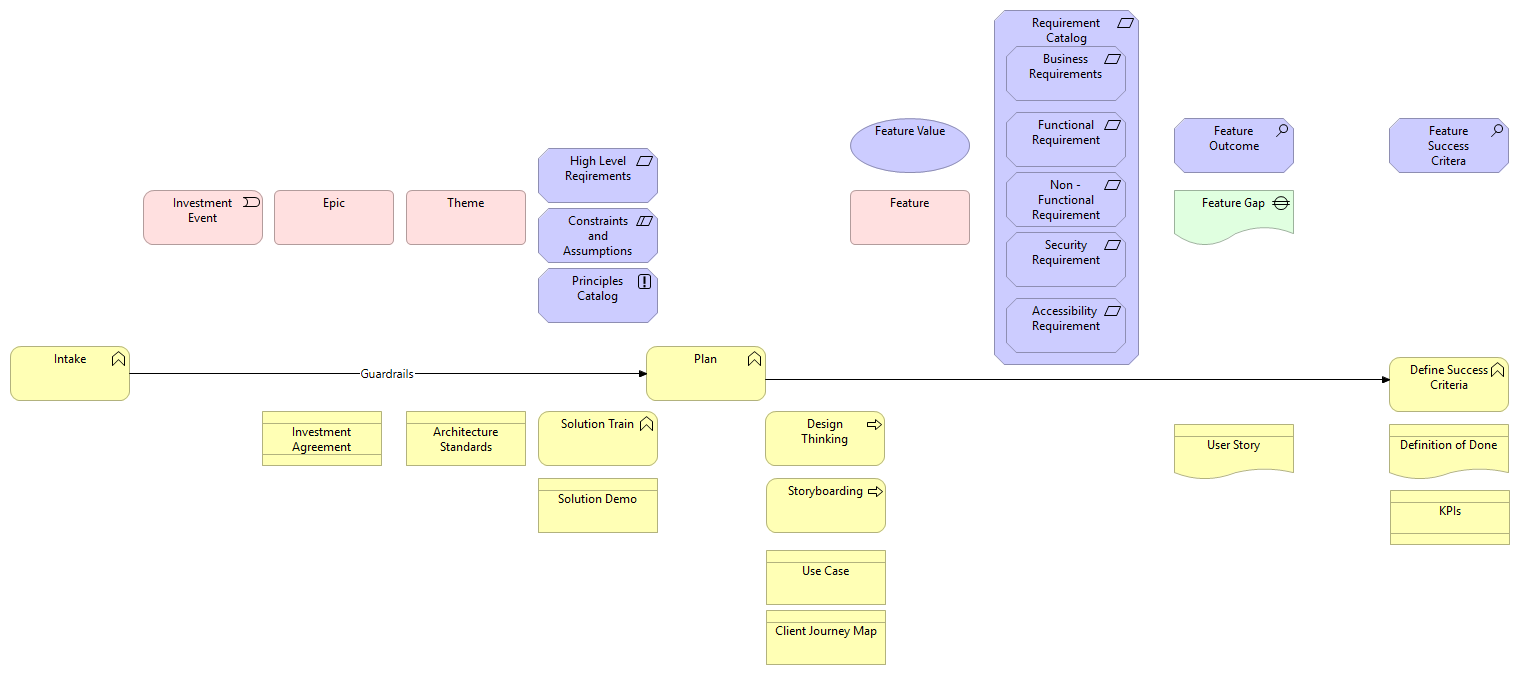
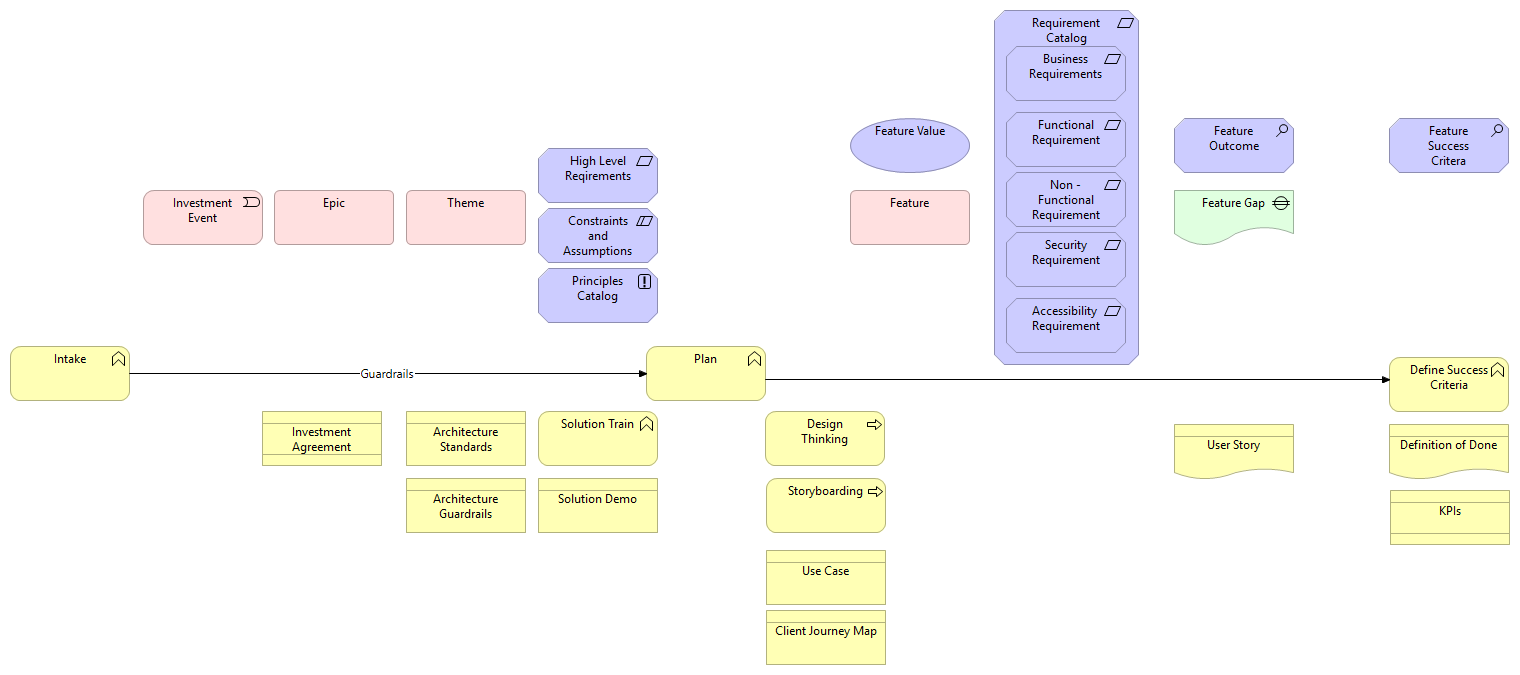
API Guide Report

Changed region(s): [[0.2474, 0.6844, 0.3711, 0.8089]]

diff --git a/reports/CommonSandbox Report/e8ecca68-8692-400d-9425-b00d60784a26/elements/06c492be-ccd5-4fff-83f4-f98b7fc4f906.html b/reports/CommonSandbox Report/e8ecca68-8692-400d-9425-b00d60784a26/elements/06c492be-ccd5-4fff-83f4-f98b7fc4f906.html
@@ -1,0 +1,70 @@
+<!DOCTYPE HTML PUBLIC "-//W3C//DTD HTML 4.01 Transitional//EN" "http://www.w3.org/TR/html4/loose.dtd">
+<html class="frame" lang="en">
+<head>
+	<meta http-equiv="Content-Type" content="text/html;charset=utf-8">
+	<title>Architecture Guardrails</title>
+
+	<!-- JQUERY (use 1.x branch to be compatible with IE 6/7/8) -->
+	<script type="text/javascript" src="../../lib/jquery/js/jquery-1.11.2.min.js"></script>
+	<!-- BOOTSTRAP -->
+	<link type="text/css" rel="stylesheet" href="../../lib/bootstrap/css/bootstrap-3.3.2.min.css">
+	<link type="text/css" rel="stylesheet" href="../../lib/bootstrap/css/bootstrap-theme-3.3.2.min.css">
+	<script type="text/javascript" src="../../lib/bootstrap/js/bootstrap-3.3.2.min.js"></script>
+	<!-- REPORT SPECIFIC -->
+	<link type="text/css" rel="stylesheet" href="../../css/model.css">
+	<link type="text/css" rel="stylesheet" href="../../css/i18n.css">
+	<script type="text/javascript" src="../../js/frame.js"></script>
+	<script type="text/javascript" src="../../js/imageMapResizer.min.js"></script>
+</head>
+
+<body>
+	<div class="panel panel-default root-panel">
+
+		<div class="panel-heading root-panel-heading">
+            <!-- Name -->
+               <b>Architecture Guardrails</b>
+
+            <!-- If a View with Viewpoint -->
+			   (<span class="i18n-elementtype-BusinessObject"></span>)
+			   <a class="glyphicon glyphicon-info-sign" id="hint-BusinessObject" target="hint"></a>
+		</div>
+
+		<div class="panel-body root-panel-body">
+		    <!-- If this is a digram model (has children and no bounds) show the image -->
+
+			<div role="tabpanel">
+				<!-- Nav tabs -->
+				<ul class="nav nav-tabs" role="tablist">
+                    <!-- Purpose / Documentation / Content -->
+					   <li role="presentation" class="active"><a href="#documentation" aria-controls="documentation" role="tab" data-toggle="tab" class="i18n-documentation"></a></li>
+
+                    <!-- Properties -->
+                    <li role="presentation"><a href="#properties" aria-controls="properties" role="tab" data-toggle="tab" class="i18n-properties"></a></li>
+
+				</ul>
+
+				<!-- Tab panes -->
+				<div class="tab-content">
+					<div role="tabpanel" class="tab-pane active" id="documentation">
+						<textarea id="docsrc" style="display:none"></textarea>
+						<div id="doctgt" style="white-space:pre-wrap"></div>
+					</div>
+					<div role="tabpanel" class="tab-pane" id="properties">
+						<table class="table table-striped table-hover table-condensed">
+							<thead>
+								<tr>
+									<th class="i18n-key"></th>
+									<th class="i18n-value"></th>
+								</tr>
+							</thead>
+							<tbody>
+							</tbody>
+						</table>
+					</div>
+			  </div>
+			</div>
+		</div>
+	</div>
+	<script type="text/javascript">imageMapResize();</script>
+</body>
+</html>

diff --git a/reports/CommonSandbox Report/e8ecca68-8692-400d-9425-b00d60784a26/elements/model.html b/reports/CommonSandbox Report/e8ecca68-8692-400d-9425-b00d60784a26/elements/model.html
@@ -1053,6 +1053,8 @@
 										dataElements.push({id:"id-ff31b7597bce4597b42a93eed0730bce", type:"Representation", name:decodeURL("Witness"), documentation:decodeURL("An+attestation+to+the+content+")});
 									dataFoldersContent.push({folderid:"b450b6a4-519b-4191-a289-4df897ca0a1b", contentid:"id-84dc6ac2c98a4b3eb8c0fd7b1b3b37f9", contenttype:"Representation"});
 										dataElements.push({id:"id-84dc6ac2c98a4b3eb8c0fd7b1b3b37f9", type:"Representation", name:decodeURL("Container"), documentation:decodeURL("A+documentary+proof+of+the+credential+")});
+									dataFoldersContent.push({folderid:"b450b6a4-519b-4191-a289-4df897ca0a1b", contentid:"06c492be-ccd5-4fff-83f4-f98b7fc4f906", contenttype:"BusinessObject"});
+										dataElements.push({id:"06c492be-ccd5-4fff-83f4-f98b7fc4f906", type:"BusinessObject", name:decodeURL("Architecture+Guardrails"), documentation:decodeURL("")});
 
 								dataFoldersContent.push({folderid:"e8ecca68-8692-400d-9425-b00d60784a26", contentid:"4b1b92bd-7586-4e58-927a-fdad7c2d42fb", contenttype:"Folder"});
 								dataFolders.push({id:"4b1b92bd-7586-4e58-927a-fdad7c2d42fb", type:"Folder", name:decodeURL("Application"), documentation:decodeURL("")});
@@ -6366,6 +6368,7 @@
 												dataViewsContent.push({viewid:"e02c223f-879f-443a-b1cd-a75484cb0ee4", contentid:"92633d83-6b9d-45a2-865f-36fea7e27c1f", contenttype:"DiagramModelArchimateObject"});
 												dataViewsContent.push({viewid:"e02c223f-879f-443a-b1cd-a75484cb0ee4", contentid:"5c1169d9-0b1c-4adf-9181-94d3313fc5fd", contenttype:"DiagramModelArchimateObject"});
 												dataViewsContent.push({viewid:"e02c223f-879f-443a-b1cd-a75484cb0ee4", contentid:"5c465ddd-4f28-4da5-9971-4e830bdaf656", contenttype:"DiagramModelArchimateObject"});
+												dataViewsContent.push({viewid:"e02c223f-879f-443a-b1cd-a75484cb0ee4", contentid:"e2ee4a6a-9a2f-4415-827b-ebf7d02d918c", contenttype:"DiagramModelArchimateObject"});
 
 																		dataViewsContent.push({viewid:"e02c223f-879f-443a-b1cd-a75484cb0ee4", contentid:"35a08f08-421c-4558-95f0-f006270d7ecd", contenttype:"DiagramModelArchimateConnection"});
 

diff --git a/reports/CommonSandbox Report/e8ecca68-8692-400d-9425-b00d60784a26/views/e02c223f-879f-443a-b1cd-a75484cb0ee4.html b/reports/CommonSandbox Report/e8ecca68-8692-400d-9425-b00d60784a26/views/e02c223f-879f-443a-b1cd-a75484cb0ee4.html
@@ -34,6 +34,7 @@
 		    <!-- If this is a digram model (has children and no bounds) show the image -->
 			   <img class="diagram" src="../images/e02c223f-879f-443a-b1cd-a75484cb0ee4.png" alt="Plan" usemap="#e02c223f-879f-443a-b1cd-a75484cb0ee4map"/>
 			   <map name="e02c223f-879f-443a-b1cd-a75484cb0ee4map">
+				  		<area shape="rect" coords="406,478,526,533" href="../elements/06c492be-ccd5-4fff-83f4-f98b7fc4f906.html"  target="element">
 				  		<area shape="rect" coords="766,478,886,533" href="../elements/58e5fad6-6b5b-4bcf-84ad-51c5325c2347.html"  target="element">
 				  		<area shape="rect" coords="406,190,526,245" href="../elements/052f92c1-4a30-41ac-9aee-521b1c23222f.html"  target="element">
 				  		<area shape="rect" coords="766,550,886,605" href="../elements/c9506914-3f57-41d5-8d76-6f5e98cb2754.html"  target="element">
@@ -264,6 +265,11 @@
 											<tr>
 											    <td> <a href="../elements/58e5fad6-6b5b-4bcf-84ad-51c5325c2347.html" target="element"> Storyboarding </a> </td>
 											    <td> <a href="../elements/58e5fad6-6b5b-4bcf-84ad-51c5325c2347.html" target="element" class="i18n-elementtype-BusinessProcess"> </a> </td>
+											</tr>
+
+											<tr>
+											    <td> <a href="../elements/06c492be-ccd5-4fff-83f4-f98b7fc4f906.html" target="element"> Architecture Guardrails </a> </td>
+											    <td> <a href="../elements/06c492be-ccd5-4fff-83f4-f98b7fc4f906.html" target="element" class="i18n-elementtype-BusinessObject"> </a> </td>
 											</tr>
 
 

diff --git a/reports/CommonSandbox Report/index.html b/reports/CommonSandbox Report/index.html
@@ -532,6 +532,7 @@
 													<li class="tree-element"><a href="e8ecca68-8692-400d-9425-b00d60784a26/elements/id-64f01f5ecbdf4e22a039b593ddd2f796.html" target="element"> Content  </a></li>
 													<li class="tree-element"><a href="e8ecca68-8692-400d-9425-b00d60784a26/elements/id-ff31b7597bce4597b42a93eed0730bce.html" target="element"> Witness </a></li>
 													<li class="tree-element"><a href="e8ecca68-8692-400d-9425-b00d60784a26/elements/id-84dc6ac2c98a4b3eb8c0fd7b1b3b37f9.html" target="element"> Container </a></li>
+													<li class="tree-element"><a href="e8ecca68-8692-400d-9425-b00d60784a26/elements/06c492be-ccd5-4fff-83f4-f98b7fc4f906.html" target="element"> Architecture Guardrails </a></li>
 
 									</ul>
 								</li>
